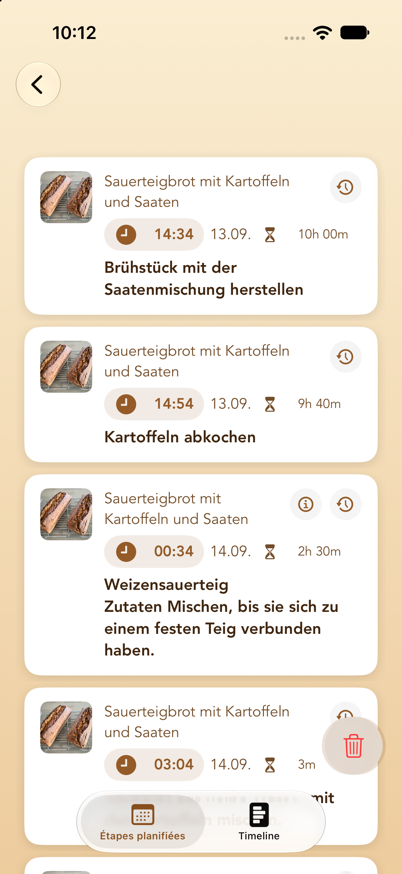
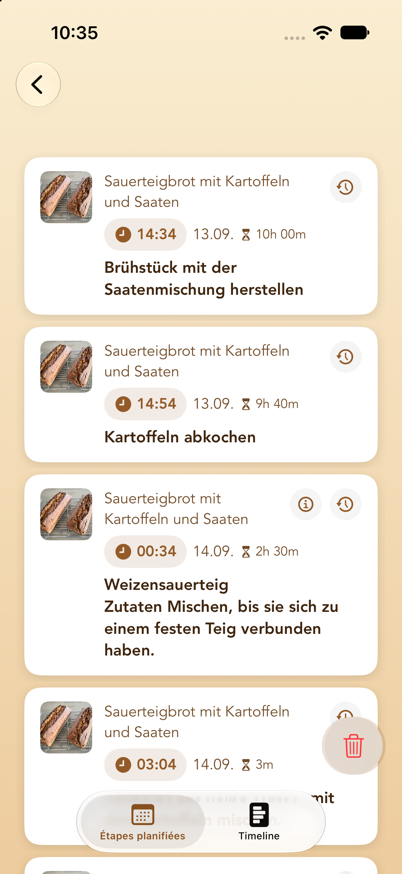
Keep the time row of a planned step from truncating
The time pill and the duration were Labels, which are greedy horizontally.
With layout priorities on both, they shared the row and squeezed the date in
between to "09…" whenever a 12-hour time like "12:34 AM" got wide. Plain
stacks of icon and text with fixedSize keep every part at its natural width;
fixedSize on a Label itself collapses the title instead.

The three list screenshots in the manual are retaken with the fixed row.

diff --git a/BackPlaner/Views/ScheduledTasksView/ScheduledTasksView.swift b/BackPlaner/Views/ScheduledTasksView/ScheduledTasksView.swift
@@ -172,33 +172,45 @@ struct ScheduledTasksView: View {
                             .accessibilityLabel("Schritt zeitlich verschieben")
                         }
 
+                        // Every part keeps its natural width. These used to be
+                        // `Label`s, which are greedy horizontally: with layout
+                        // priorities the two of them shared the row and the
+                        // date in between was squeezed to "09…" as soon as a
+                        // 12-hour time like "12:34 AM" got wide. Plain stacks
+                        // of icon and text have no such appetite, and
+                        // `fixedSize()` on a `Label` collapses its title
+                        // instead of protecting it.
                         HStack(spacing: 6) {
-                            Label {
-                                Text(nextStep.date, style: .time)
-                            } icon: {
+                            HStack(spacing: 4) {
                                 Image(systemName: "clock.fill")
+                                Text(nextStep.date, style: .time)
+                                    .lineLimit(1)
+                                    .fixedSize()
                             }
                             .font(Theme.brandFont(15))
                             // The foreground accent, not the gradient one: this
                             // text also has to clear 4.5:1 against its own tint.
                             .foregroundColor(Theme.accentText)
-                            .lineLimit(1)
                             .padding(.horizontal, 10)
                             .padding(.vertical, 6)
                             .background(Theme.accentText.opacity(0.12), in: Capsule())
-                            .layoutPriority(1)
 
                             Text(shortDate(nextStep.date))
                                 .font(Theme.bodyFont(15))
                                 .foregroundColor(Theme.subtitle)
                                 .lineLimit(1)
+                                .fixedSize()
 
-                            Label(Rational.displayHoursMinutes(nextStep.duration),
-                                  systemImage: "hourglass")
-                                .font(Theme.bodyFont(13))
-                                .foregroundColor(Theme.subtitle)
-                                .lineLimit(1)
-                                .layoutPriority(1)
+                            HStack(spacing: 4) {
+                                Image(systemName: "hourglass")
+                                Text(Rational.displayHoursMinutes(nextStep.duration))
+                                    .lineLimit(1)
+                                    .fixedSize()
+                            }
+                            .font(Theme.bodyFont(13))
+                            .foregroundColor(Theme.subtitle)
+
+                            Spacer(minLength: 0)
                         }
 
                         Text(nextStep.instruction)
